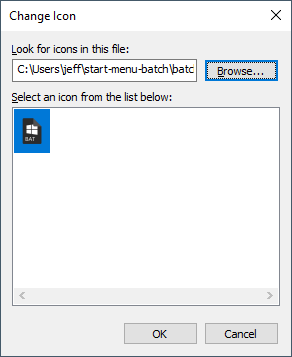
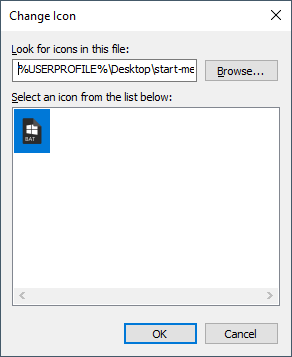
move example to User's Desktop directory

Changed region(s): [[0.0616, 0.1541, 0.9555, 0.2465], [0.4007, 0.8936, 0.6781, 0.986]]

diff --git a/README.md b/README.md
@@ -7,20 +7,22 @@ The example used is a simple batch file to start a VMWare Workstation VM on my m
 
 ## How To
 
-1. After creating a batch (.bat) file, right-click on the Desktop and 
+1. After creating a batch (.bat) file, right-click within the desired folder and 
 select "New" -> "Shortcut":
 
     ![Create Shortcut](how-to/create-shortcut.png)
 
+    ***Note**: This example uses a "start-menu-batch" folder on the User's Desktop.*
+
 2. On the "Create Shortcut" dialog prompt, enter the following value, and click the "Next" button:
 
     ```cmd
-    cmd /c start "" "%USERPROFILE%/start-menu-batch/Snake.bat"
+    cmd /c start "" "%USERPROFILE%/Desktop/start-menu-batch/Snake.bat"
     ```
 
     ![Create Shortcut 2](how-to/create-shortcut-2.png)
 
-    ***Note**: Change `"%USERPROFILE%/start-menu-batch/Snake.bat"` with the path to your batch file.*
+    ***Note**: Change `"%USERPROFILE%/Desktop/start-menu-batch/Snake.bat"` with the path to your batch file.*
 
 3. Enter a name for the shortcut and click the "Finish" button:
 
@@ -33,6 +35,8 @@ select "New" -> "Shortcut":
 5. Click the "Browse" button and locate the desired icon (.ico) file:
 
     ![Change Icon 2](how-to/change-icon-2.png)
+
+    ***Note**: The example value is `"%USERPROFILE%\Desktop\start-menu-batch\batch.ico"`*
 
 6. Once the desired icon is selected, click the "OK" button twice.
 
